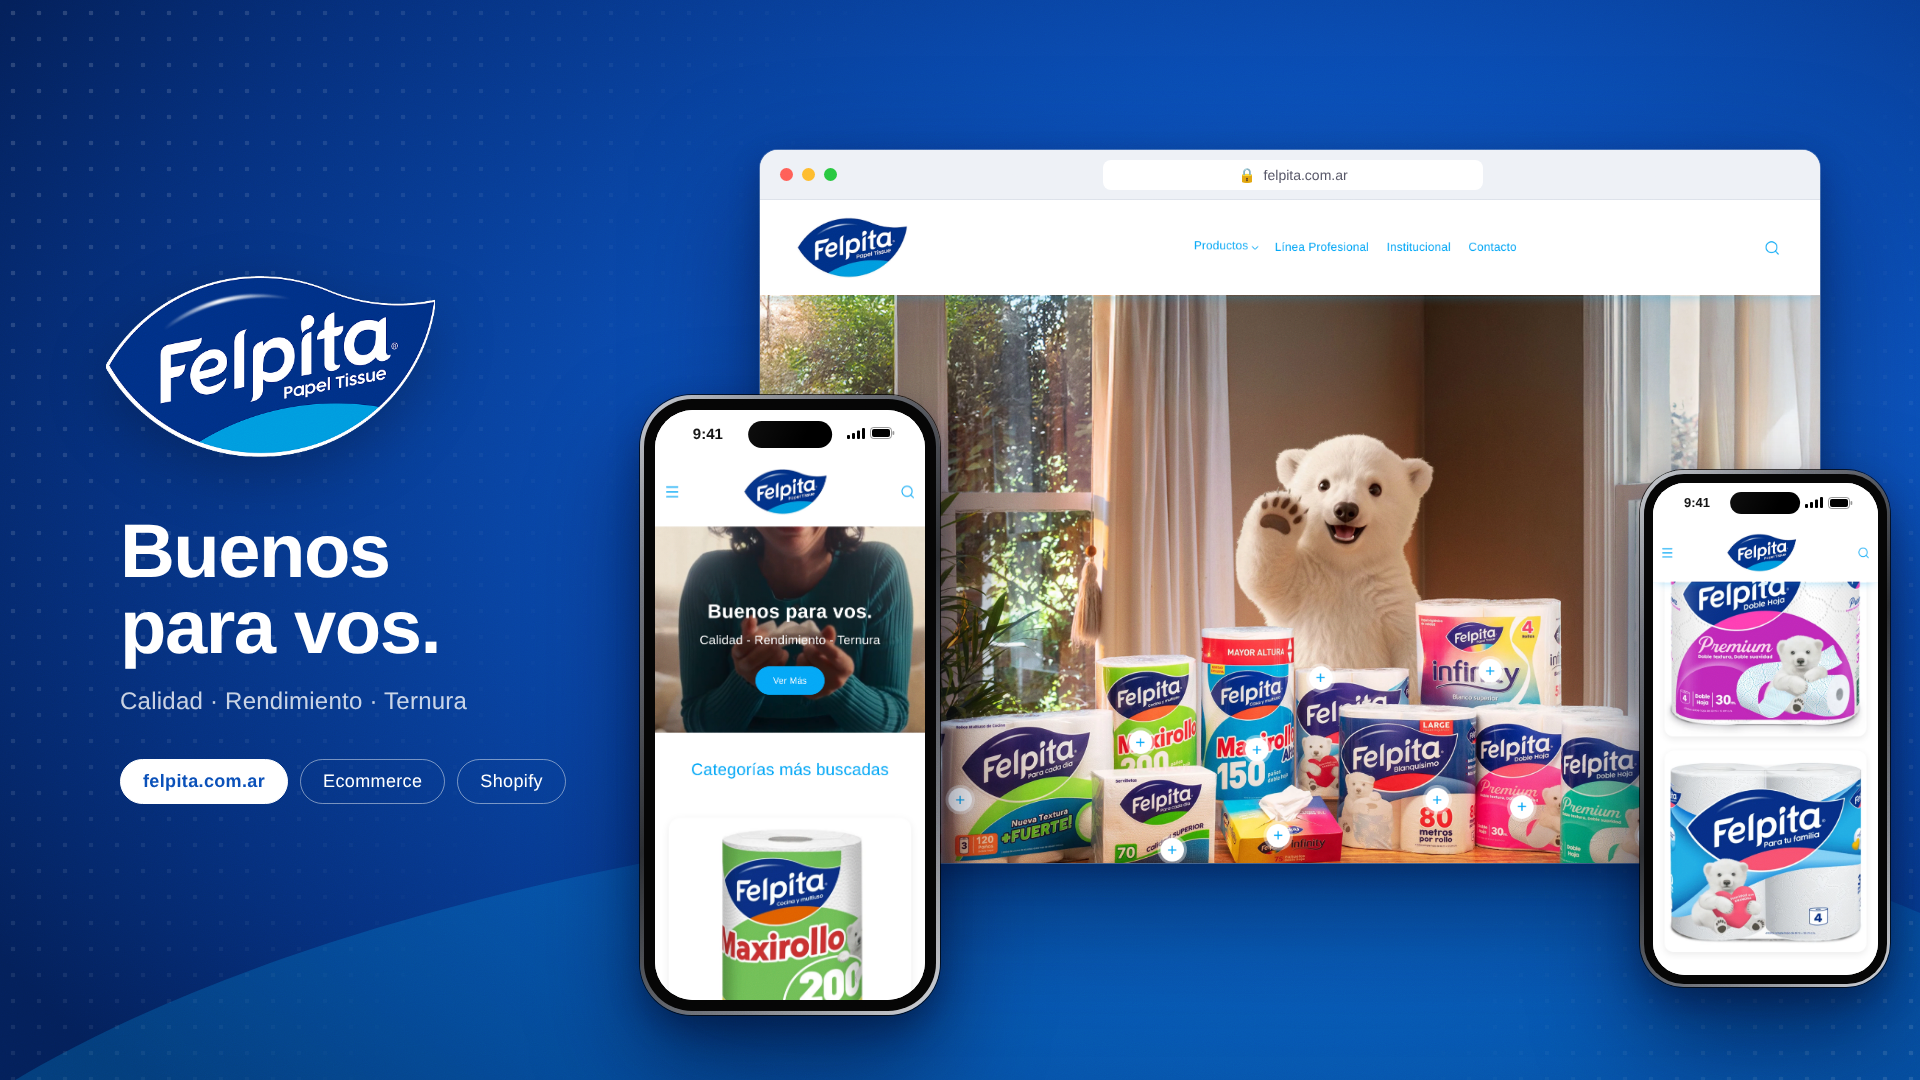
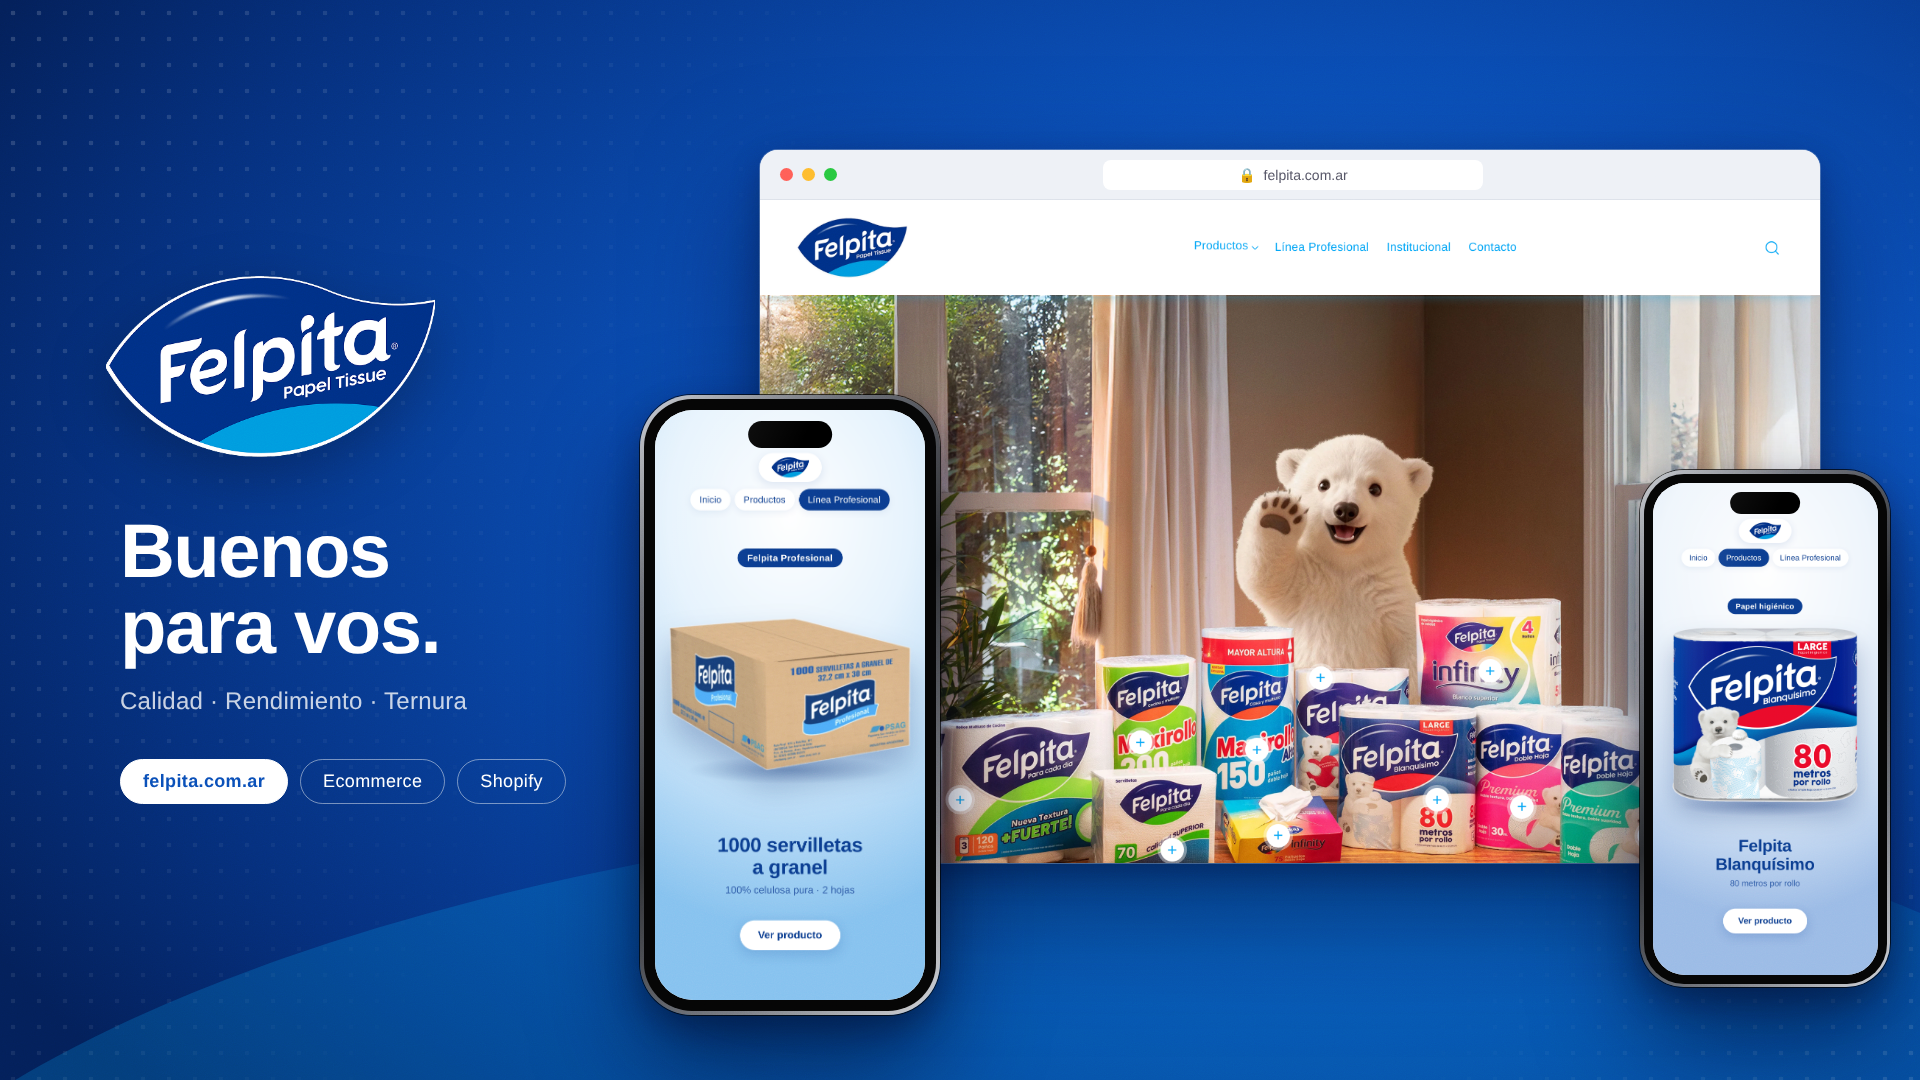
Felpita: pantallas de celu nuevas en la placa (tarjeta de producto a pantalla completa)
Claude-Session: https://claude.ai/code/session_01BWt5J9jNSz2dgGPSeo4rGY

Changed region(s): [[0.3438, 0.3667, 0.5, 0.9472], [0.8438, 0.4889, 1.0, 0.9167], [0.9375, 0.4583, 0.9688, 0.4889]]

diff --git a/Felpita-portfolio/work/build/placa.html b/Felpita-portfolio/work/build/placa.html
@@ -27,7 +27,7 @@ h1{font-size:76px;line-height:1;font-weight:700;letter-spacing:-.02em;margin-top
 .phone{position:absolute;border-radius:var(--ro);padding:var(--e);background:linear-gradient(135deg,#c9ccd2,#6d7078 22%,#2a2c30 50%,#7a7d84 78%,#d2d4d8);box-shadow:0 0 0 1px rgba(0,0,0,.7),0 50px 100px rgba(0,10,40,.6),0 14px 30px rgba(0,10,40,.35)}
 .phone .bz{border-radius:var(--rb);padding:var(--b);background:#050505;height:100%}
 .phone .scr{border-radius:var(--rs);overflow:hidden;position:relative;height:100%;background:#fff}
-.phone .scr img{position:absolute;left:0;width:100%;top:var(--sbh);height:calc(100% - var(--sbh));object-fit:cover;object-position:top}
+.phone .scr img{position:absolute;left:0;width:100%;top:0;height:100%;object-fit:cover;object-position:top}
 .phone .sb{position:absolute;left:0;right:0;top:0;height:var(--sbh);background:#fff;display:flex;align-items:center;justify-content:space-between;padding:0 11% 0 14%;color:#000;font-weight:600;font-size:15px;z-index:2}
 .phone .isl{position:absolute;left:50%;top:11px;transform:translateX(-50%);width:31%;height:27px;background:#000;border-radius:999px;z-index:3}
 .phone .glare{position:absolute;inset:0;background:linear-gradient(115deg,rgba(255,255,255,.14) 0%,rgba(255,255,255,0) 30%);z-index:4;pointer-events:none}
@@ -45,7 +45,7 @@ h1{font-size:76px;line-height:1;font-weight:700;letter-spacing:-.02em;margin-top
   <div class="pills"><span class="pill f">felpita.com.ar</span><span class="pill">Ecommerce</span><span class="pill">Shopify</span></div>
  </div>
  <div class="br"><div class="bar"><i></i><i></i><i></i><div class="url">🔒&nbsp; felpita.com.ar</div></div><img src="../cur/y3600.png"></div>
- <div class="phone p1"><div class="bz"><div class="scr"><div class="sb"><span>9:41</span><span class="ic"><svg width="18" height="11" viewBox="0 0 18 11"><rect x="0" y="7" width="3" height="4" rx="1"/><rect x="5" y="5" width="3" height="6" rx="1"/><rect x="10" y="2.5" width="3" height="8.5" rx="1"/><rect x="15" y="0" width="3" height="11" rx="1"/></svg><svg width="25" height="12" viewBox="0 0 25 12"><rect x=".5" y=".5" width="21" height="11" rx="3" fill="none" stroke="#000" opacity=".4"/><rect x="2" y="2" width="18" height="8" rx="2"/><rect x="22.5" y="4" width="1.8" height="4" rx="1" opacity=".4"/></svg></span></div><div class="isl"></div><img src="../cm/y0.png"><div class="glare"></div></div></div></div>
- <div class="phone p2"><div class="bz"><div class="scr"><div class="sb"><span>9:41</span><span class="ic"><svg width="18" height="11" viewBox="0 0 18 11"><rect x="0" y="7" width="3" height="4" rx="1"/><rect x="5" y="5" width="3" height="6" rx="1"/><rect x="10" y="2.5" width="3" height="8.5" rx="1"/><rect x="15" y="0" width="3" height="11" rx="1"/></svg><svg width="25" height="12" viewBox="0 0 25 12"><rect x=".5" y=".5" width="21" height="11" rx="3" fill="none" stroke="#000" opacity=".4"/><rect x="2" y="2" width="18" height="8" rx="2"/><rect x="22.5" y="4" width="1.8" height="4" rx="1" opacity=".4"/></svg></span></div><div class="isl"></div><img src="../cm/y1250.png"><div class="glare"></div></div></div></div>
+ <div class="phone p1"><div class="bz"><div class="scr"><div class="isl"></div><img src="../cm/scr_caja.png"><div class="glare"></div></div></div></div>
+ <div class="phone p2"><div class="bz"><div class="scr"><div class="isl"></div><img src="../cm/scr_blanq.png"><div class="glare"></div></div></div></div>
  <div class="grain"></div>
 </div></body></html>

diff --git a/Felpita-portfolio/work/build/pantallas.html b/Felpita-portfolio/work/build/pantallas.html
@@ -1,0 +1,40 @@
+<!doctype html><html><head><meta charset="utf-8"><style>
+*{box-sizing:border-box;margin:0;padding:0}
+body{font-family:Helvetica,Arial,sans-serif;display:flex;gap:40px;padding:40px;background:#888}
+.ab{position:relative;width:390px;height:852px;background:#fff;overflow:hidden}
+.card{position:absolute;inset:0;border-radius:0;overflow:hidden;
+ background:radial-gradient(ellipse 120% 70% at 50% 18%,#ffffff 0%,#e6f3fd 38%,#b9dcf7 72%,#86c2ef 100%)}
+.b .card{background:radial-gradient(ellipse 120% 70% at 50% 18%,#ffffff 0%,#eef5fc 40%,#c9dcf3 75%,#9bbbe6 100%)}
+.logo{position:absolute;left:50%;top:62px;transform:translateX(-50%);height:42px;padding:0 18px;border-radius:999px;background:#fff;box-shadow:0 4px 14px rgba(10,60,150,.12);display:flex;align-items:center}
+.logo img{height:30px;display:block}
+.nav{position:absolute;left:0;right:0;top:114px;display:flex;justify-content:center;gap:6px}
+.nav span{background:rgba(255,255,255,.92);border-radius:999px;padding:8px 13px;font-size:13.5px;color:#0b3d91;box-shadow:0 3px 10px rgba(10,60,150,.08)}
+.nav span.on{background:#0b3d91;color:#fff}
+.tag{position:absolute;left:50%;transform:translateX(-50%);top:200px;background:#0b3d91;color:#fff;border-radius:999px;padding:6px 14px;font-size:13px;font-weight:700;letter-spacing:.03em}
+.prod{position:absolute;left:50%;transform:translateX(-50%);filter:drop-shadow(0 26px 22px rgba(5,40,110,.28))}
+.a .prod{top:300px;width:350px}
+.b .prod{top:250px;width:320px}
+.floor{position:absolute;left:50%;transform:translateX(-50%);width:300px;height:40px;border-radius:50%;background:radial-gradient(ellipse,rgba(5,40,110,.30),rgba(5,40,110,0) 70%)}
+.a .floor{top:500px}.b .floor{top:538px}
+.name{position:absolute;left:0;right:0;bottom:150px;text-align:center;color:#0b3d91}
+.name h2{font-size:29px;line-height:1.08;font-weight:700;letter-spacing:-.01em}
+.name p{font-size:14.5px;margin-top:9px;color:#2d5aa8}
+.btn{position:absolute;left:50%;transform:translateX(-50%);bottom:72px;background:#fff;color:#0b3d91;border-radius:999px;padding:13px 26px;font-size:15px;font-weight:700;box-shadow:0 6px 18px rgba(10,60,150,.18);white-space:nowrap}
+</style></head><body>
+<div class="ab a" id="scr_caja"><div class="card">
+ <div class="logo"><img src="../assets/logo_Felpita_-_Papel_Tissue_-_color_3_1.png"></div>
+ <div class="nav"><span>Inicio</span><span>Productos</span><span class="on">Línea Profesional</span></div>
+ <div class="tag">Felpita Profesional</div>
+ <div class="floor"></div><img class="prod" src="../assets/caja.png">
+ <div class="name"><h2>1000 servilletas<br>a granel</h2><p>100% celulosa pura · 2 hojas</p></div>
+ <div class="btn">Ver producto</div>
+</div></div>
+<div class="ab b" id="scr_blanq"><div class="card">
+ <div class="logo"><img src="../assets/logo_Felpita_-_Papel_Tissue_-_color_3_1.png"></div>
+ <div class="nav"><span>Inicio</span><span class="on">Productos</span><span>Línea Profesional</span></div>
+ <div class="tag">Papel higiénico</div>
+ <div class="floor"></div><img class="prod" src="../assets/blanq.png">
+ <div class="name"><h2>Felpita<br>Blanquísimo</h2><p>80 metros por rollo</p></div>
+ <div class="btn">Ver producto</div>
+</div></div>
+</body></html>
